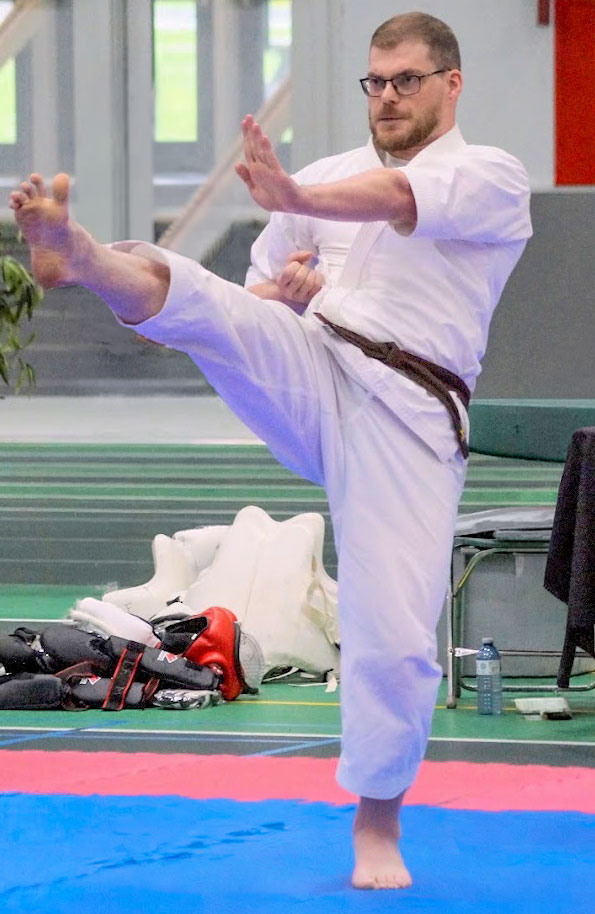
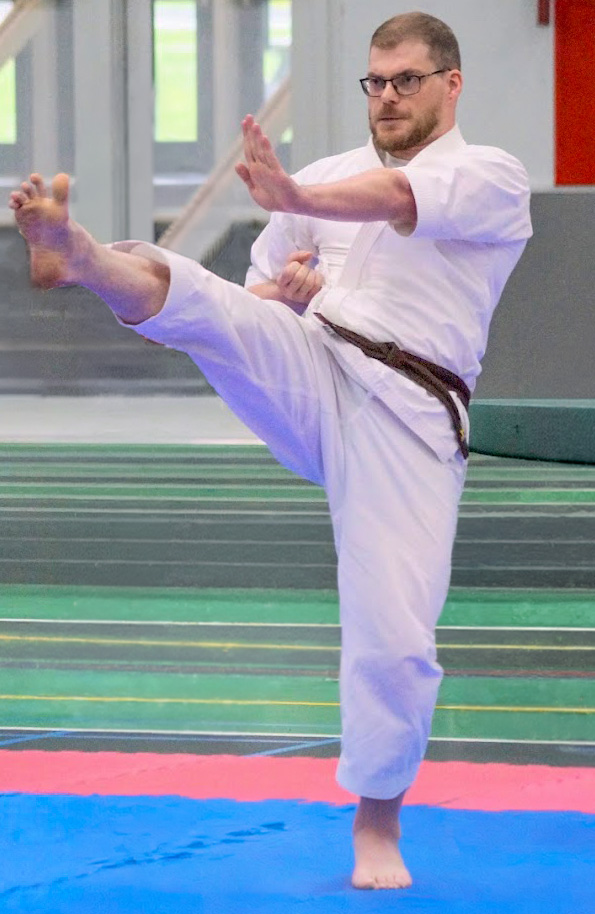
feat:refactor styles for header and main layout, improve responsiveness

diff --git a/components/layout/Header.module.css b/components/layout/Header.module.css
@@ -2,21 +2,19 @@
     position: sticky;
     top: 0;
     z-index: 1000;
-    display: flex;
-    gap: 32px;
+    padding: 16px;
+    background-color: rgba(255, 255, 255, 0.85);
+    backdrop-filter: blur(20px);
+    border-bottom: 1px solid var(--color-border);
 }
 
 .content{
     display: flex;
-    gap: 32px;
-}
-
-.section {
-    flex: 1;
-}
-
-.nav {
-
+    max-width: 1200px;
+    width: 100%;
+    margin: 0 auto;
+    align-items: center;
+    justify-content: center;
 }
 
 .nav ul {
@@ -25,4 +23,24 @@
     list-style: none;
     padding: 0;
     margin: 0;
+}
+
+.nav a {
+    color: var(--color-text);
+    text-decoration: none;
+
+    font-weight: 500;
+
+    border-bottom: 2px solid transparent;
+
+    transition:
+            color 0.2s ease,
+            border-color 0.2s ease;
+
+    font-size: 1.5rem;
+}
+
+.nav a:hover {
+    color: var(--color-accent);
+    border-bottom-color: var(--color-accent);
 }

diff --git a/app/page.module.css b/app/page.module.css
@@ -1,11 +1,37 @@
 .me {
     display: flex;
     align-items: center;
-    gap: 32px;
+    justify-content: center;
+
+    max-width: 1200px;
+    margin: 0 auto;
+
+    gap: 64px;
+
+    padding: 64px 32px;
 }
 
 .photoMe{
+    width: 100%;
+    max-width: 500px;
+    height: auto;
     padding: 16px;
+}
+
+/* This section is for responsive design, adjusting the layout for smaller screens */
+@media (max-width: 768px) {
+    .me {
+        flex-direction: column;
+    }
+
+    .photoMe {
+        max-width: 100%;
+        padding: 0;
+    }
+}
+
+.meContent {
+    max-width: 600px;
 }
 
 .me h1 {
@@ -34,9 +60,15 @@
 }
 
 .link{
-    background-color: #00ff51;
+    background-color: var(--color-primary);
     padding: 8px 16px;
     border-radius: 4px;
     text-decoration: none;
-    color: black;
+    color: white;
+    margin-top: 16px;
+}
+
+.main p {
+    color: var(--color-text);
+    font-size: 20px;
 }

diff --git a/app/globals.css b/app/globals.css
@@ -1,26 +1,20 @@
-@import "tailwindcss";
-
 :root {
-  --background: #ffffff;
-  --foreground: #171717;
-}
+  --color-background: #F8F8F8;
+  --color-surface: #FFFFFF;
 
-@theme inline {
-  --color-background: var(--background);
-  --color-foreground: var(--foreground);
-  --font-sans: var(--font-geist-sans);
-  --font-mono: var(--font-geist-mono);
-}
+  --color-text: #222222;
 
-@media (prefers-color-scheme: dark) {
-  :root {
-    --background: #0a0a0a;
-    --foreground: #ededed;
-  }
+  --color-primary: #111111;
+  --color-primary-hover: #333333;
+
+  --color-accent: #8B1E1E;
+  --color-accent-hover: #A32626;
+
+  --color-border: #E5E5E5;
 }
 
 body {
-  background: var(--background);
-  color: var(--foreground);
+  background-color: var(--color-background);
+  color: var(--color-text);
   font-family: Arial, Helvetica, sans-serif;
 }

diff --git a/app/page.tsx b/app/page.tsx
@@ -4,24 +4,25 @@ import styles from "./page.module.css";
 
 export default function Home() {
     return (
-        <main>
+        <main className={styles.main}>
             <section className={styles.me}>
                 <Image
                     className={styles.photoMe}
                     src="/images/compe-ps.jpg"
                     alt="moi compe"
-                    width={600}
-                    height={400}
+                    width={500}
+                    height={625}
                     priority
                 />
 
-                <div>
+                <div className={styles.meContent}>
                     <h1>
                         Jean-Simon Cyr
                     </h1>
-                    <p>Cours privés de karaté à Sherbrooke
-                        Progressez à votre rythme grâce à un accompagnement personnalisé, que vous soyez débutant ou intermédiaire.</p>
-                    <Link href="/private-lessons">En savoir plus</Link>
+                    <p>Cours privés de karaté à Sherbrooke.</p>
+                    <p>Progressez à votre rythme grâce à un accompagnement personnalisé, que vous soyez débutant ou
+                        intermédiaire.</p>
+                    <Link className={styles.link} href="/private-lessons">En savoir plus</Link>
                 </div>
             </section>
 
@@ -31,10 +32,10 @@ export default function Home() {
                 <Link className={styles.link} href="/private-lessons">En savoir plus</Link>
             </section>
 
-            <section className = {styles.game}>
+            <section className={styles.game}>
                 <h2>Jeux d'apprentissage</h2>
                 <p>De petits jeux éducatifs autour du karaté sont en développement.</p>
-                <p>En collaboration avec : Jeux Samamuse</p>
+                <p>En collaboration avec : Jeux Sam amuse</p>
                 <Image
                     src="/images/JeuxSamAmuse-logo.png"
                     alt="Jeux Sam Amuse"
@@ -47,7 +48,7 @@ export default function Home() {
                     target="_blank"
                     rel="noopener noreferrer"
                 >
-                    Visitez le site de Jeux Samamuse
+                    Visitez le site de Jeux Sam amuse
                 </a>
 
             </section>

diff --git a/components/layout/Header.tsx b/components/layout/Header.tsx
@@ -5,7 +5,6 @@ export default function Header() {
     return (
         <header className={styles.header}>
             <section className={styles.content}>
-                <h1>Karate - logo</h1>
                 <nav className={styles.nav}>
                     <ul>
                         <li><Link href="/">Accueil</Link></li>